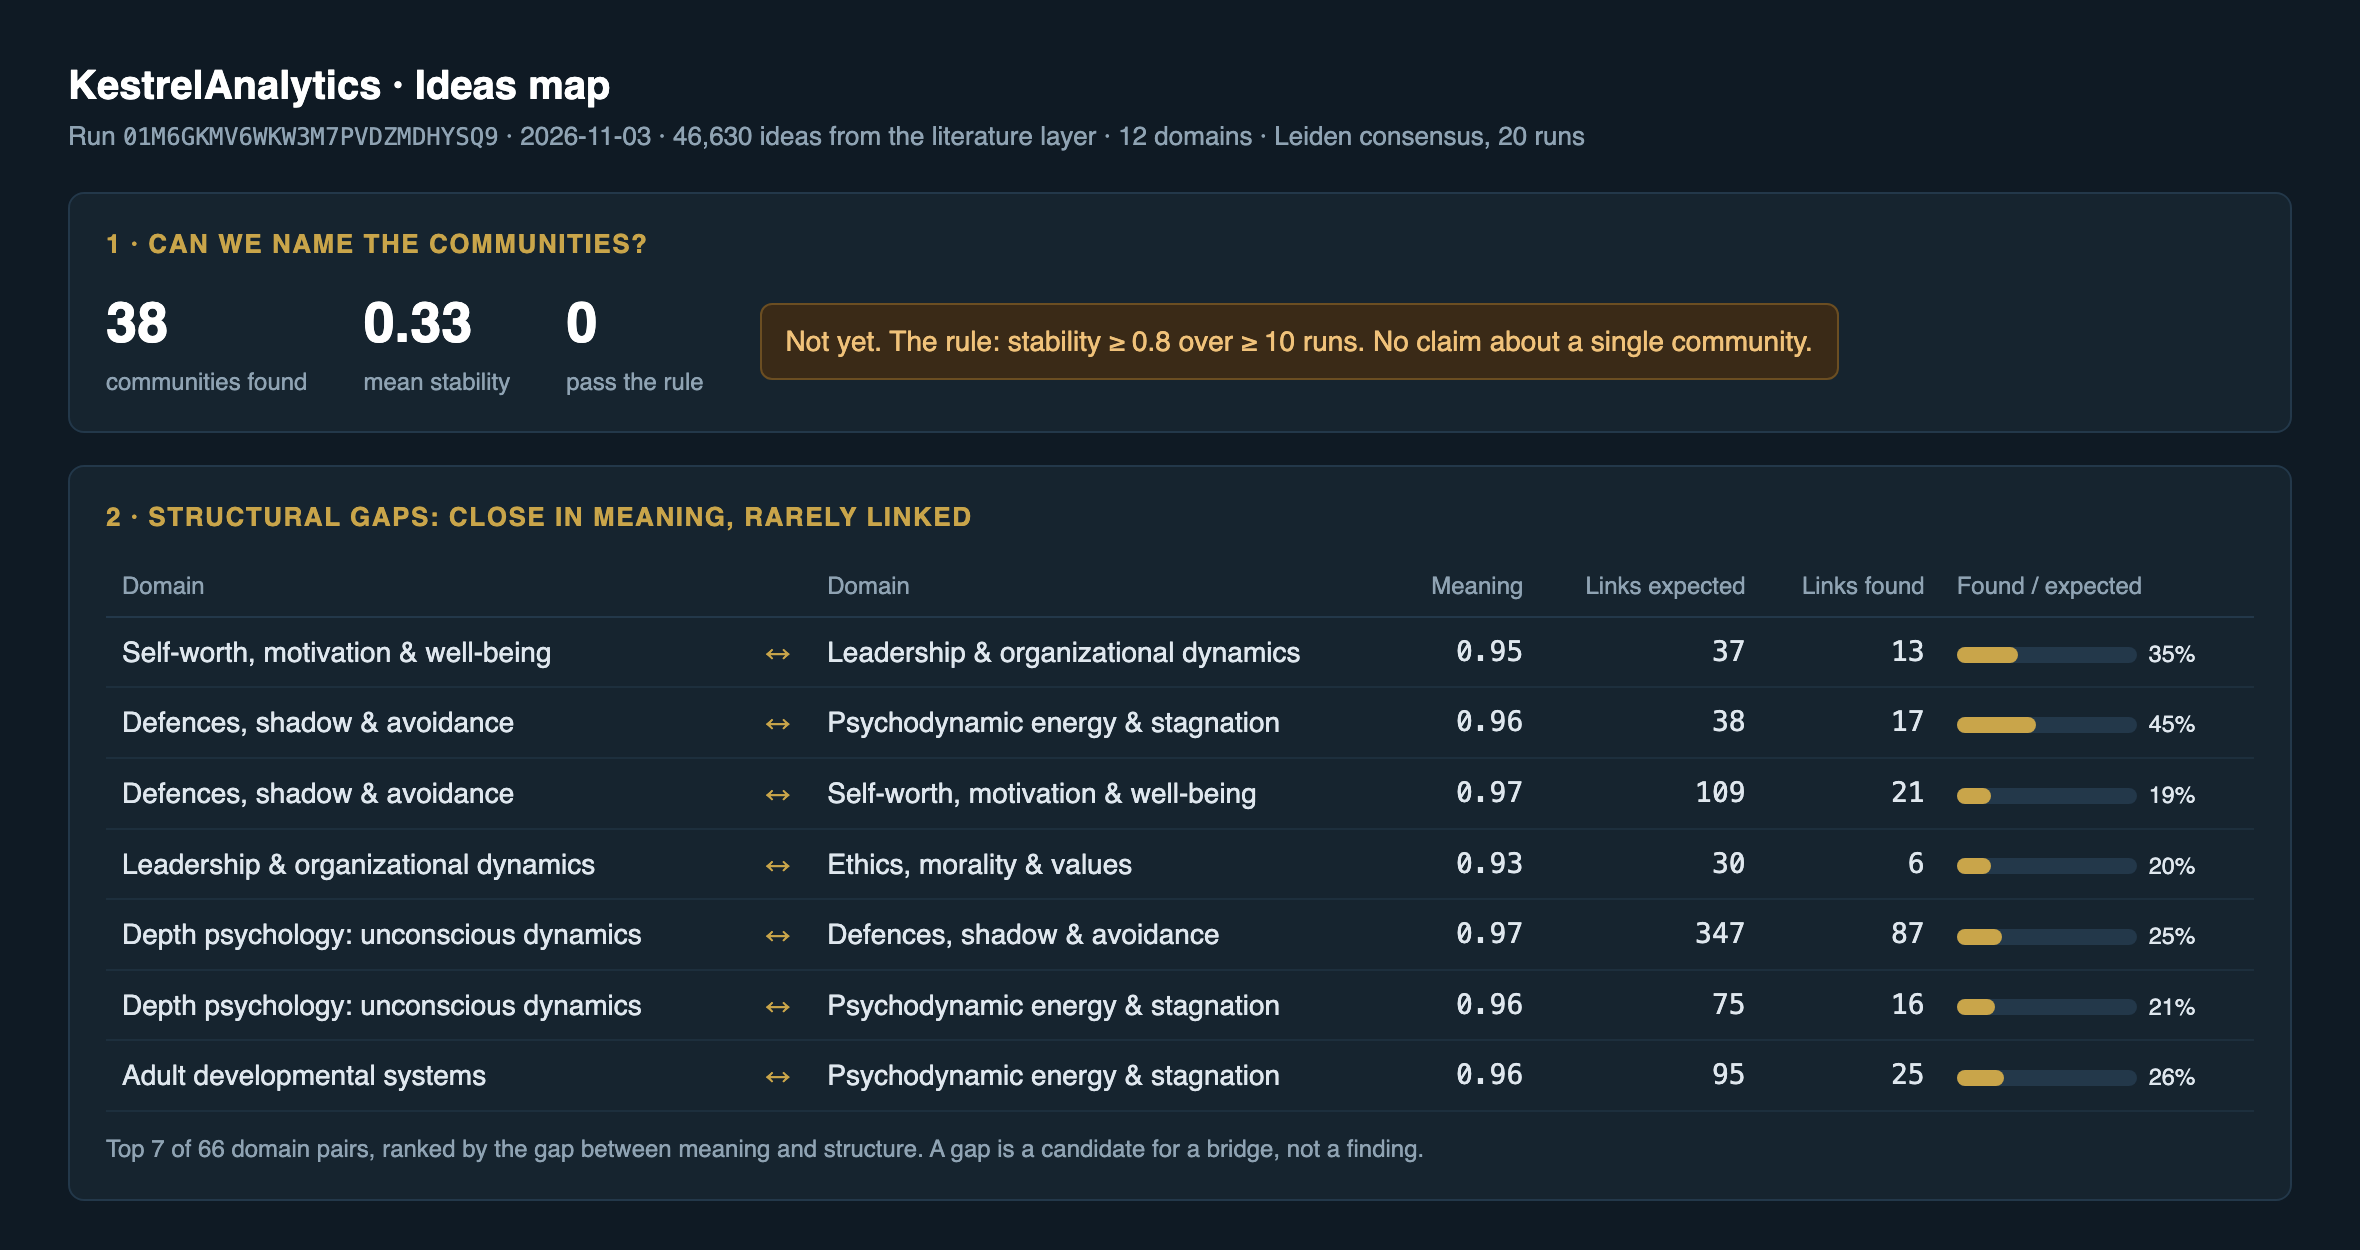
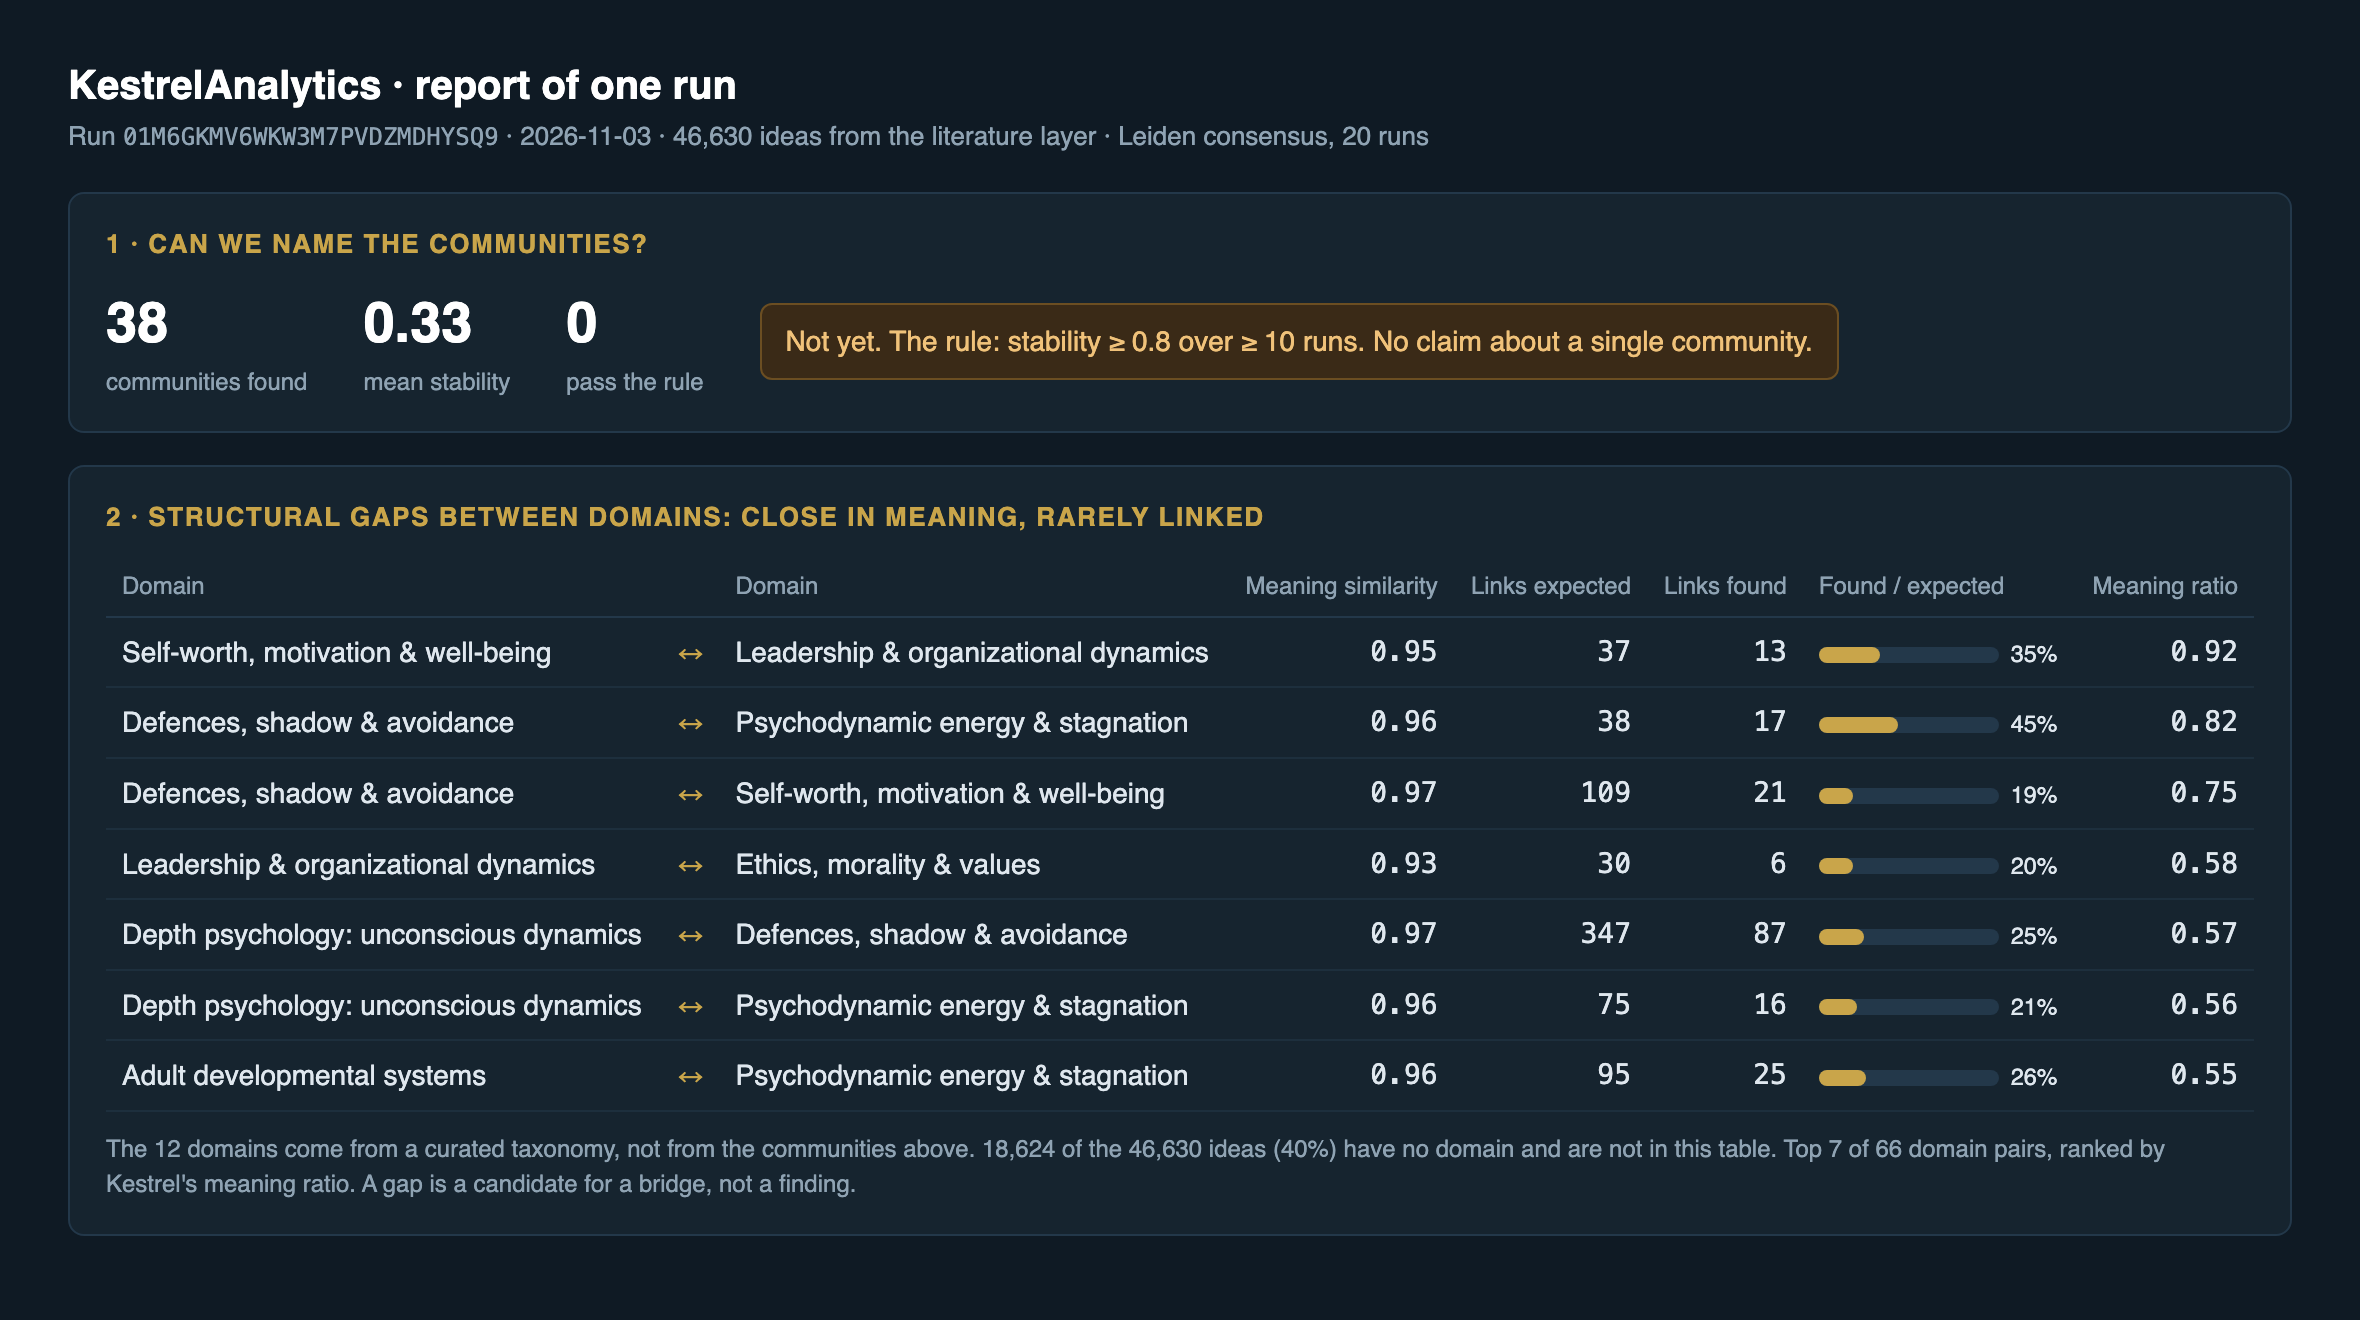
docs: correct the run report: ranking measure shown, domains marked as curated, unassigned share stated

diff --git a/README.md b/README.md
@@ -5,10 +5,10 @@
 Built for [The Land Institute](https://landinstitute.vercel.app), research on how adults develop at work.
 
 <p align="center">
-  <img src="assets/kestrel-gaps.png" alt="A KestrelAnalytics run on the literature layer: 38 communities found, 0 stable enough to name, and a table of domain pairs that are close in meaning but rarely linked" width="820">
+  <img src="assets/kestrel-gaps.png" alt="A report of one KestrelAnalytics run on the literature layer: 38 communities found, 0 stable enough to name, and a table of curated domain pairs that are close in meaning but rarely linked" width="820">
 </p>
 
-<p align="center"><em>A run on the literature layer (46,630 ideas from books): 0 of 38 communities are stable enough to name, and the domain pairs that are close in meaning but rarely linked.</em></p>
+<p align="center"><em>A report of one run on the literature layer (46,630 ideas from books): 0 of 38 communities are stable enough to name. Below, the pairs of curated domains that are close in meaning but rarely linked.</em></p>
 
 This repository is the public face of the project: the description and the public issues. The source code is private.
 
